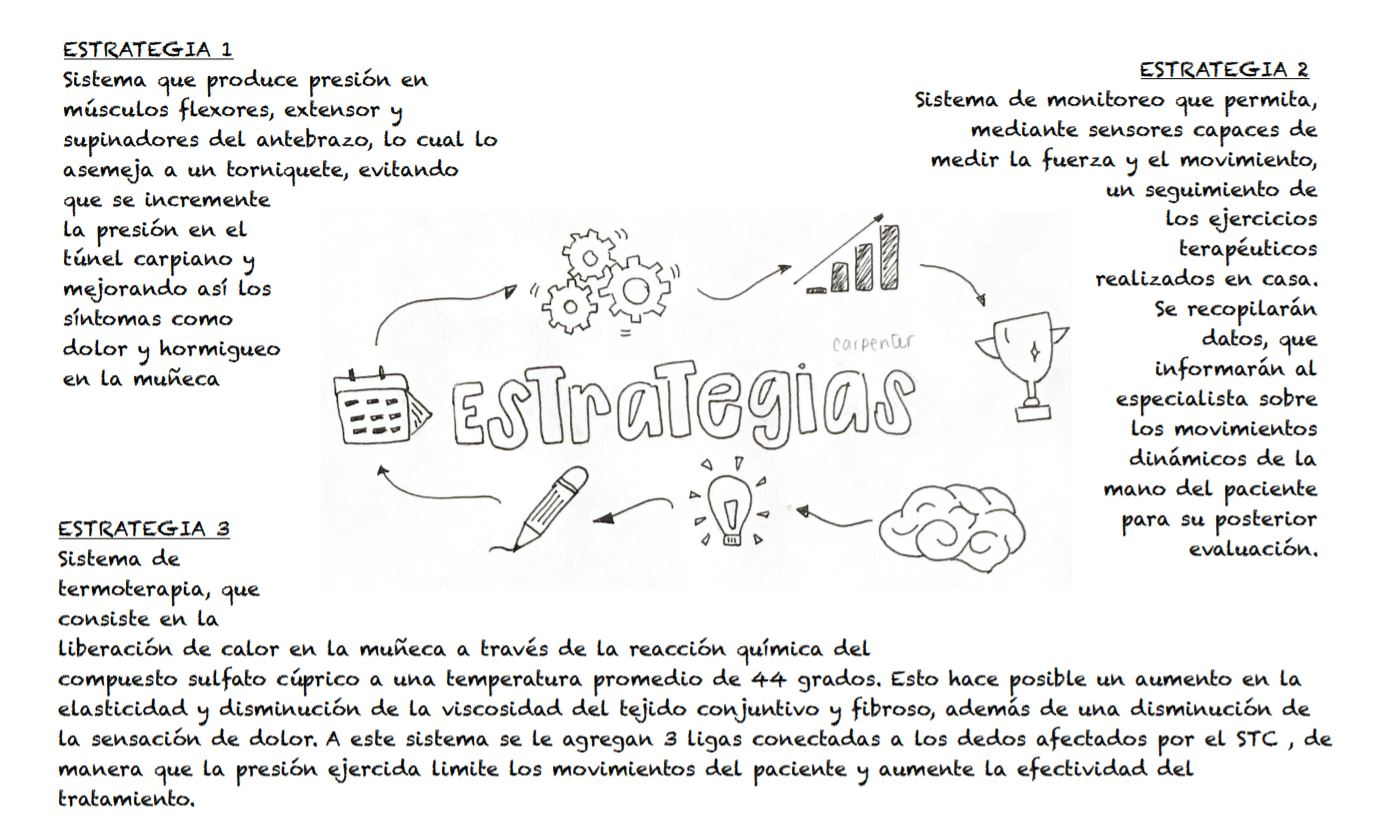
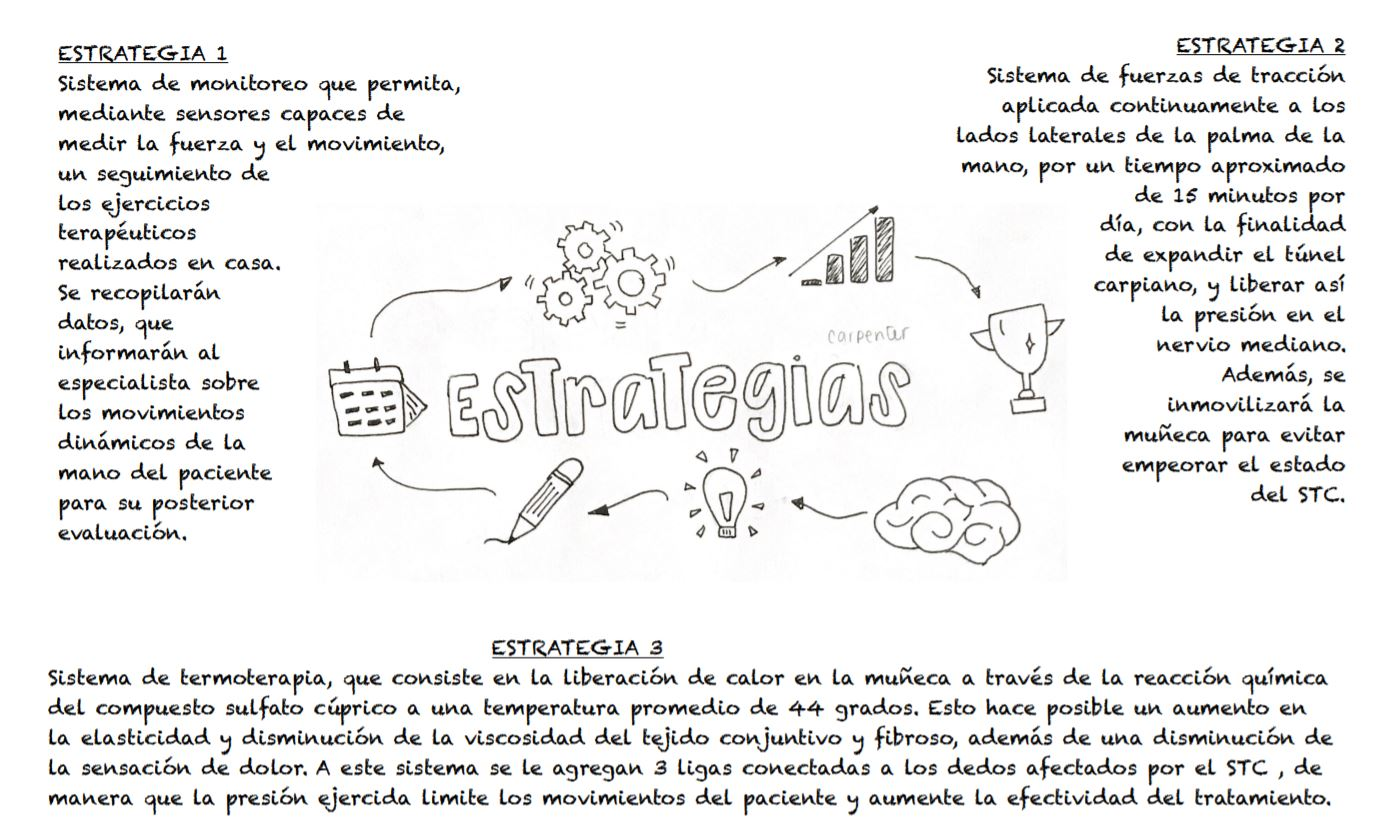
semana 2 4 y 5

diff --git a/Semana2.html b/Semana2.html
@@ -124,25 +124,33 @@
     <section id="semana2-d" class="semana2-d">
       <h2>Definición del problema</h2>
       <p>
-        <b>Usuario/Cliente: </b> Pacientes que sufren Síndrome de Túnel Carpiano
-        que no deseen someterse a una cirugía.
+        El síndrome del túnel carpiano constituye un problema de salud
+        ocupacional (aquella que ha sido adquirida en el puesto de trabajo), que
+        afecta a la población económicamente activa. Desafortunadamente, no
+        existen estadísticas de acceso público en el Perú que nos permitan
+        cuantificar el impacto económico en nuestro país. Los factores de riesgo
+        son variados, tanto laborales como no laborales, aunque estos últimos
+        predominan sustancialmente. Los tratamientos convencionales actuales no
+        invasivos demuestran que alivian el dolor en un período largo, tiempo
+        que nuestro paciente no está dispuesto a perder. Además, a partir de la
+        búsqueda de información por parte de nuestro equipo, se concluye que,
+        lamentablemente, no existen métodos comerciales actuales (no invasivos)
+        en el Perú utilizados para el tratamiento del STC en los estadios leves
+        y moderados Así, definimos:
       </p>
       <p>
-        <b>Necesidad: </b>Falta de un tratamiento no invasivo que alivie los
-        síntomas en un corto periodo de tiempo.
+        <b>Usuario/Cliente: </b> Personas afectadas con síndrome del túnel
+        carpiano en estadios leve y moderado.
       </p>
       <p>
-        <b>Problema: </b>”En el Perú los pacientes que sufren Síndrome de Túnel
-        Carpiano, que no optan por realizarse una intervención quirúrgica, no
-        tienen acceso a una intervención no invasiva que alivie sus síntomas en
-        un corto periodo de tiempo.”.
+        <b>Necesidad: </b>Tratamiento no invasivo que alivie los síntomas en un
+        período corto de tiempo.
       </p>
       <p>
-        <b>Conclusión: </b>”A partir de la búsqueda de información por parte de
-        nuestro equipo, podemos concluir que, lamentablemente, no existen
-        métodos comerciales actuales en el Perú utilizados para el tratamiento
-        del STC en los estadios leve y moderado, además de los mencionados
-        previamente.”.
+        <b>Problema: </b>”En el Perú, los pacientes que padecen Síndrome del
+        Túnel Carpiano y no desean someterse a una intervención quirúrgica, no
+        poseen una alternativa no invasiva que alivie sus síntomas en un corto
+        periodo de tiempo. ”.
       </p>
     </section>
 

diff --git a/Semana4.html b/Semana4.html
@@ -40,7 +40,7 @@
         fuerza y el movimiento, un seguimiento de los ejercicios terapéuticos
         realizados en casa. Se recopilarán datos, que informarán al especialista
         sobre los movimientos dinámicos de la mano del paciente para su
-        posterior evaluación.
+        posterior evaluación
       </p>
       <img
         src="images/Estrategia 1.jpg"
@@ -50,10 +50,11 @@
       />
       <h2>Estrategia 2</h2>
       <p>
-        Sistema que produce presión en músculos flexores, extensor y supinadores
-        del antebrazo, lo cual lo asemeja a un torniquete, lo cual evita que se
-        incremente la presión en el túnel carpiano y mejorando así los síntomas
-        como dolor y hormigueo en la muñeca.
+        Sistema de fuerzas de tracción aplicada continuamente a los lados
+        laterales de la palma de la mano, por un tiempo aproximado de 15 minutos
+        por día, con la finalidad de expandir el túnel carpiano, y liberar así
+        la presión en el nervio mediano. Además, se inmovilizará la muñeca para
+        evitar empeorar el estado del STC.
       </p>
       <img
         src="images/Estrategia 2.jpg"
@@ -65,13 +66,12 @@
       <p>
         Sistema de termoterapia, que consiste en la liberación de calor en la
         muñeca a través de la reacción química del compuesto sulfato cúprico a
-        una temperatura promedio de 44 * C durante un periodo de 18 minutos.
-        Esto hace posible un aumento en la elasticidad y disminución de la
-        viscosidad del tejido conjuntivo y fibroso, además de una disminución de
-        la sensación de dolor. A este sistema se le agregan 3 ligas conectadas a
-        los dedos afectados por el STC , de manera que la presión ejercida
-        limite los movimientos del paciente y aumente la efectividad del
-        tratamiento.
+        una temperatura promedio de 44 grados. Esto hace posible un aumento en
+        la elasticidad y disminución de la viscosidad del tejido conjuntivo y
+        fibroso, además de una disminución de la sensación de dolor. A este
+        sistema se le agregan 3 ligas conectadas a los dedos afectados por el
+        STC , de manera que la presión ejercida limite los movimientos del
+        paciente y aumente la efectividad del tratamiento.
       </p>
       <img
         src="images/Estrategia 3.jpg"

diff --git a/Semana5.html b/Semana5.html
@@ -34,7 +34,10 @@
     </header>
     <section id="semana5" class="semana5">
       <h1>Descripción de la propuesta de solución</h1>
-      <h2>Caja Negra</h2>
+      <p>A partir de la tabla de valoración anterior, podemos elegir una estrategia ganadora. En este caso, la estrategia 2, la cual se describe como un sistema de fuerzas de tracción aplicada a los lados laterales de la palma de la mano, que tiene como objetivo aumentar el área del túnel del carpo. A continuación, detallaremos las entradas/salidas de nuestro dispositivo y la matriz morfológica, para a luego elaborar 3 conceptos de solución a elegir. </p>
+      <h2>Conceptos de solución</h2>
+      <p>Elaboramos 3 conceptos. A continuación, podemos observar los bocetos, la tabla de comparación de precios y  una nueva tabla de valoración para elegir el concepto de solución óptimo </p>
+      <h2>Caja negra</h2>
       <img
         src="images/Caja negra.jpg"
         alt="Caja negra"

diff --git a/css/styles.css b/css/styles.css
@@ -721,7 +721,7 @@ body {
   flex-direction: column;
 }
 #semana5 h1 {
-  margin: 0 2.5rem 0;
+  margin: 0 2.5rem 3.5rem;
   font-size: 5rem;
   color: #3b3b3b;
   text-align: center;
